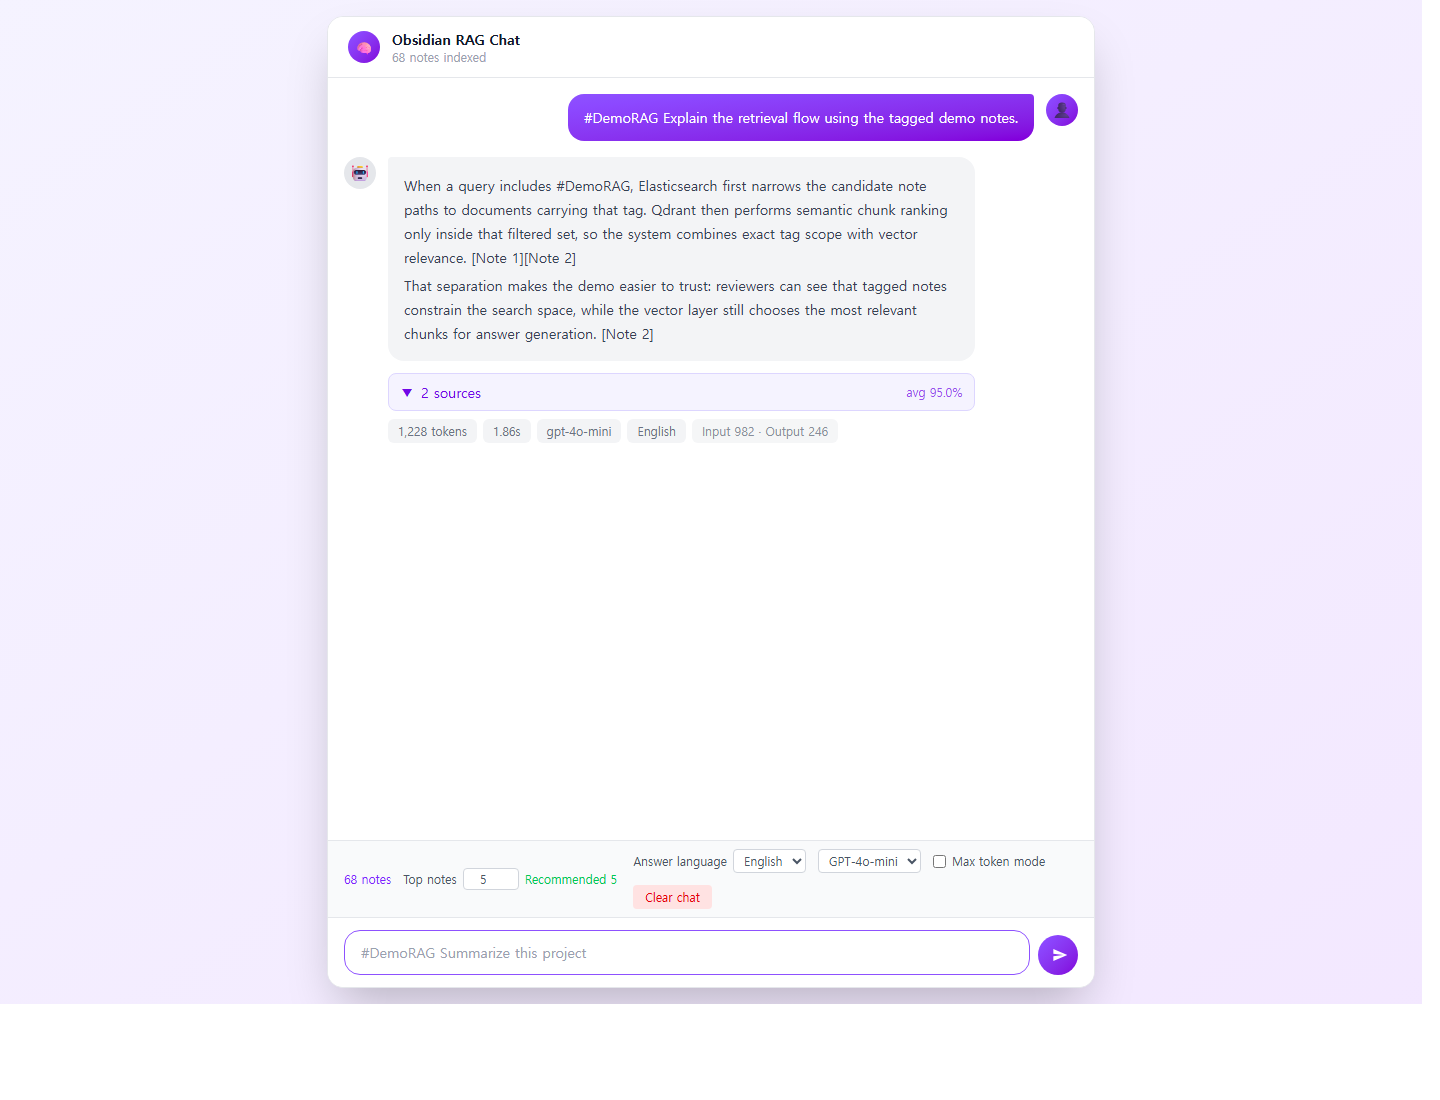
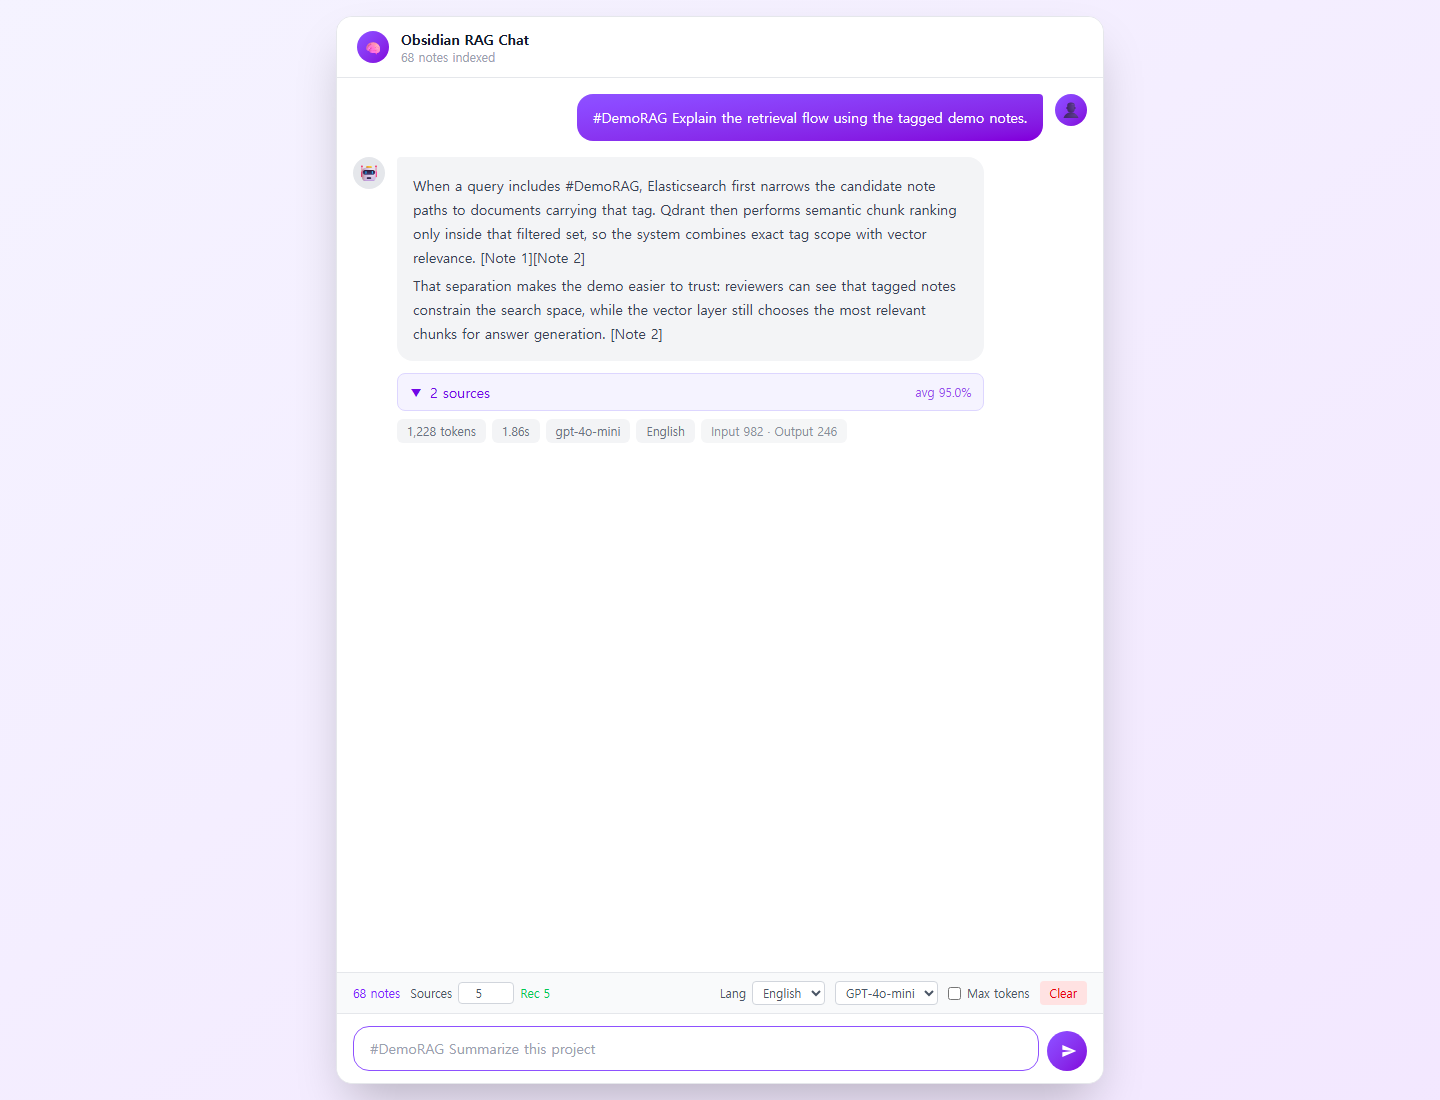
Polish multilingual demo settings bar screenshots

diff --git a/frontend/src/components/SettingsBar.tsx b/frontend/src/components/SettingsBar.tsx
@@ -45,25 +45,25 @@ const COPY = {
   },
   en: {
     notes: (count: number) => `${count} notes`,
-    topK: 'Top notes',
-    recommended: 'Recommended 5',
+    topK: 'Sources',
+    recommended: 'Rec 5',
     normal: 'Normal',
     slow: 'Slow',
-    responseLanguage: 'Answer language',
-    maxToken: 'Max token mode',
-    clear: 'Clear chat',
-    noStreaming: 'No streaming',
+    responseLanguage: 'Lang',
+    maxToken: 'Max tokens',
+    clear: 'Clear',
+    noStreaming: 'No stream',
   },
   ja: {
     notes: (count: number) => `${count}件のノート`,
-    topK: '参照ノート数',
-    recommended: '推奨 5件',
+    topK: '参照',
+    recommended: 'おすすめ 5件',
     normal: '通常',
     slow: '遅め',
-    responseLanguage: '回答言語',
-    maxToken: '最大トークンモード',
-    clear: '会話をクリア',
-    noStreaming: 'ストリーミング非対応',
+    responseLanguage: '言語',
+    maxToken: '最大トークン',
+    clear: 'クリア',
+    noStreaming: '非ストリーム',
   },
 } satisfies Record<ResponseLanguage, {
   notes: (count: number) => string;
@@ -88,9 +88,9 @@ export function SettingsBar({ settings, onChange, notesCount, onClear, canClear 
   };
 
   return (
-    <div className="flex flex-col sm:flex-row sm:items-center gap-y-1.5 sm:gap-y-0 sm:gap-x-4 px-4 py-2 border-t border-gray-200 dark:border-gray-700 bg-gray-50 dark:bg-gray-900 text-xs text-gray-600 dark:text-gray-400">
+    <div className="flex flex-col sm:flex-row sm:items-center gap-y-1.5 sm:gap-y-0 sm:gap-x-3 px-4 py-2 border-t border-gray-200 dark:border-gray-700 bg-gray-50 dark:bg-gray-900 text-xs text-gray-600 dark:text-gray-400">
       {/* 그룹1: 노트 수 + 검색 노트 수 */}
-      <div className="flex items-center gap-3">
+      <div className="flex items-center gap-2.5">
         {notesCount > 0 && (
           <span className="text-violet-600 dark:text-violet-400 font-medium whitespace-nowrap">
             {copy.notes(notesCount)}
@@ -120,7 +120,7 @@ export function SettingsBar({ settings, onChange, notesCount, onClear, canClear 
       </div>
 
       {/* 그룹2: 모델 + 최대 토큰 모드 + 대화 초기화 */}
-      <div className="flex flex-wrap items-center gap-3 sm:ml-auto">
+      <div className="flex flex-wrap items-center gap-2.5 sm:ml-auto">
         <label className="flex items-center gap-1.5">
           <span className="whitespace-nowrap">{copy.responseLanguage}</span>
           <select
@@ -161,7 +161,7 @@ export function SettingsBar({ settings, onChange, notesCount, onClear, canClear 
         {canClear && (
           <button
             onClick={onClear}
-            className="ml-auto sm:ml-0 px-3 py-1 rounded bg-red-100 dark:bg-red-900/30 text-red-600 dark:text-red-400 hover:bg-red-200 dark:hover:bg-red-900/50 transition-colors whitespace-nowrap"
+            className="ml-auto sm:ml-0 px-2.5 py-1 rounded bg-red-100 dark:bg-red-900/30 text-red-600 dark:text-red-400 hover:bg-red-200 dark:hover:bg-red-900/50 transition-colors whitespace-nowrap"
           >
             {copy.clear}
           </button>
